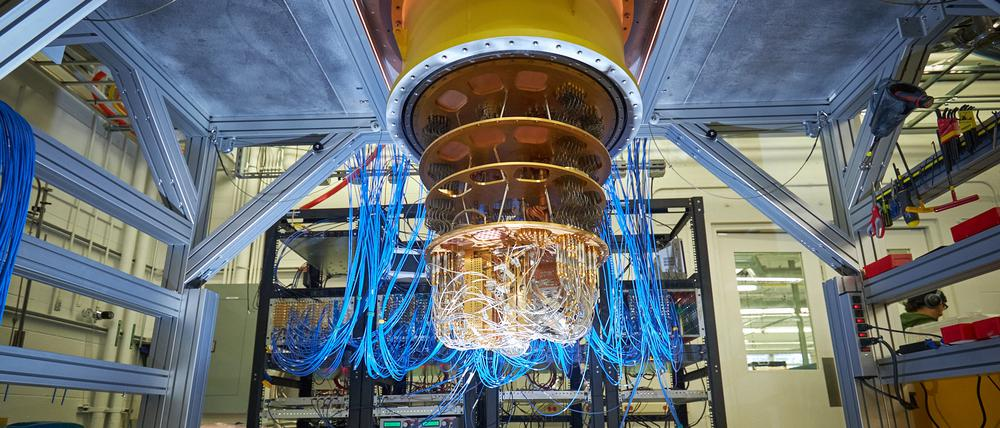
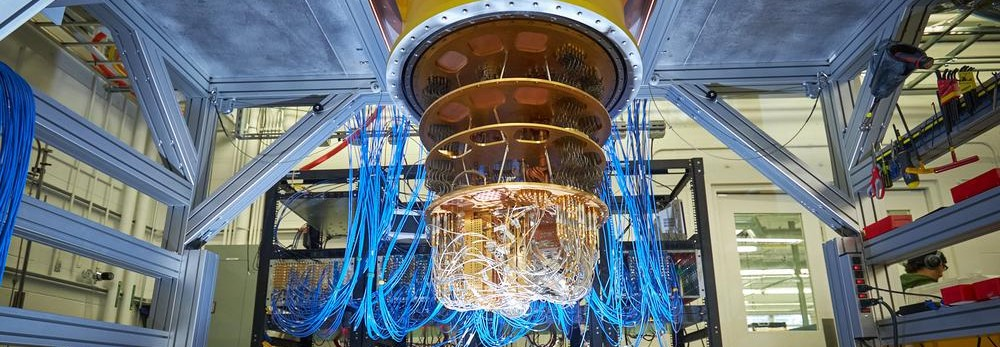
Updated main
-Titel war zu lang (wird auf jeder seite gezeigt)
-Abstract geschrieben
-teaser bild kleiner gemacht

diff --git a/main.tex b/main.tex
@@ -120,7 +120,7 @@
 %%
 %% The "title" command has an optional parameter,
 %% allowing the author to define a "short title" to be used in page headers.
-\title{Auswirkungen von Quantencomputer auf aktuelle symmetrische und asymmetrische Verschlüsselungsalgorithmen am Beispiel von RSA und AES}
+\title{Auswirkungen von Quantencomputern auf aktuelle Verschlüsselungsalgorithmen}
 
 %%
 %% The "author" command and its associated commands are used to define
@@ -181,12 +181,24 @@
 %% The abstract is a short summary of the work to be presented in the
 %% article.
 \begin{abstract}
-  A clear and well-documented \LaTeX\ document is presented as an
-  article formatted for publication by ACM in a conference proceedings
-  or journal publication. Based on the ``acmart'' document class, this
-  article presents and explains many of the common variations, as well
-  as many of the formatting elements an author may use in the
-  preparation of the documentation of their work.
+  Die fortschreitende Entwicklung von Quantencomputern stellt eine erhebliche Bedrohung 
+  für die Sicherheit moderner Verschlüsselungssysteme dar. Dieser Beitrag untersucht die 
+  Auswirkungen von Quantencomputern auf symmetrische und asymmetrische Verschlüsselungsalgorithmen, 
+  mit besonderem Fokus auf RSA und AES. Im Mittelpunkt stehen die Herausforderungen, die 
+  durch Algorithmen wie Shor’s Algorithmus und die Quanten-Fourier-Transformation entstehen.
+  Während RSA als asymmetrisches Verfahren durch die Zerlegung großer Zahlen in ihre 
+  Primfaktoren auf Basis der klassischen Rechenleistung gesichert ist, zeigt Shor’s Algorithmus, 
+  dass Quantencomputer diese Aufgabe effizient lösen können, wodurch die Sicherheit von RSA 
+  vollständig untergraben wird. Symmetrische Algorithmen wie AES sind zwar resistenter 
+  gegenüber Angriffen durch Quantencomputer, jedoch führt der Einsatz des Grover-Algorithmus 
+  zu einer quadratischen Reduktion der Sicherheit, was eine Anpassung der Schlüsselgrößen 
+  erforderlich macht, um die Integrität des Systems zu gewährleisten.
+  Der Beitrag erklärt detailliert die Funktionsweise von Shor’s Algorithmus, der auf der 
+  Quanten-Fourier-Transformation basiert, und zeigt auf, wie diese Technologie es ermöglicht, 
+  die periodischen Eigenschaften von Zahlen effizient zu berechnen. Zudem wird die allgemeine 
+  Bedeutung der Kryptografie im digitalen Zeitalter beleuchtet.
+  Die Ergebnisse verdeutlichen, dass Quantencomputer nicht nur bestehende Verschlüsselungsverfahren 
+  gefährden, sondern auch die Notwendigkeit eines Paradigmenwechsels in der Kryptografie einleiten. 
 \end{abstract}
 
 %%
@@ -214,7 +226,7 @@
 %% page.
 \begin{teaserfigure}
   \includegraphics[width=\textwidth]{sampleteaser}
-  \caption{ Google Quantum AI, 2019.}
+  \caption{Google Quantum AI, 2019.}
   \Description{Berichtigter Quantencomputer: Neuartiger Chip korrigiert viele seiner Fehler}
   \label{fig:teaser}
 \end{teaserfigure}
@@ -226,13 +238,10 @@
 \maketitle
 
 \input{sections/einleitung/section.tex}
-
 \input{sections/Daniel/section.tex}
 \input{sections/paul/section.tex}
 \input{sections/matheo/section.tex}
 \input{sections/ben/section.tex}
-
-
 \input{sections/schluss/section.tex}
 
 %%

diff --git a/sections/einleitung/section.tex b/sections/einleitung/section.tex
@@ -1,2 +1,2 @@
 \section{Einleitung}
-Hier sollte eine Einleitung stehen
+Hier sollte eine Einleitung stehen (Motivationen).
